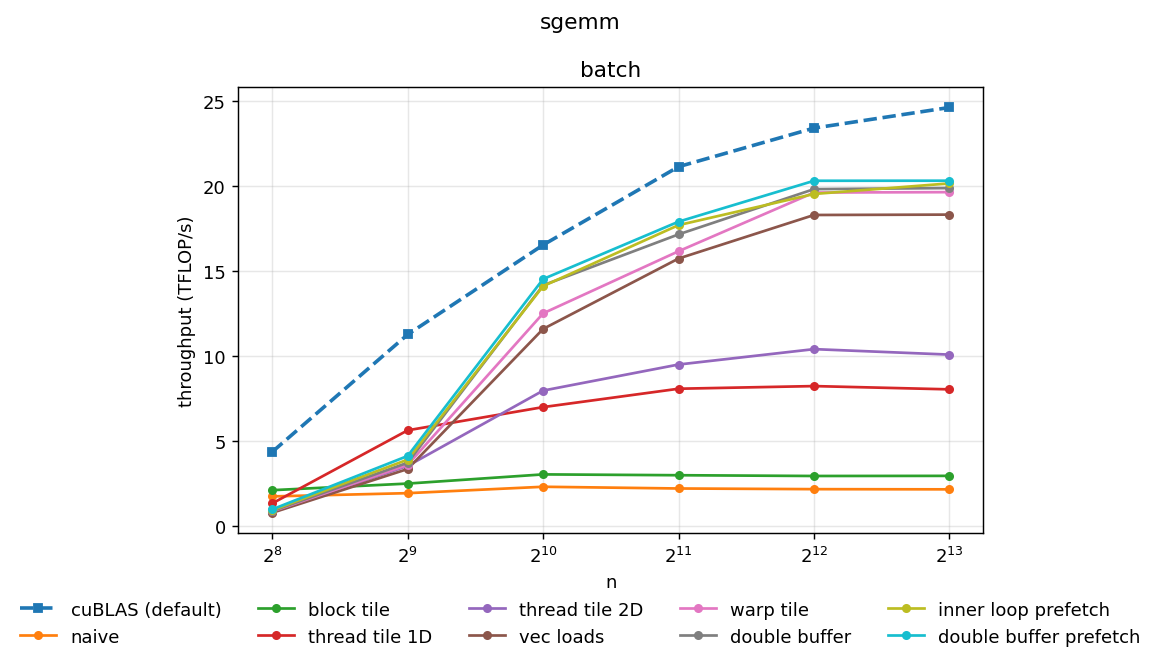
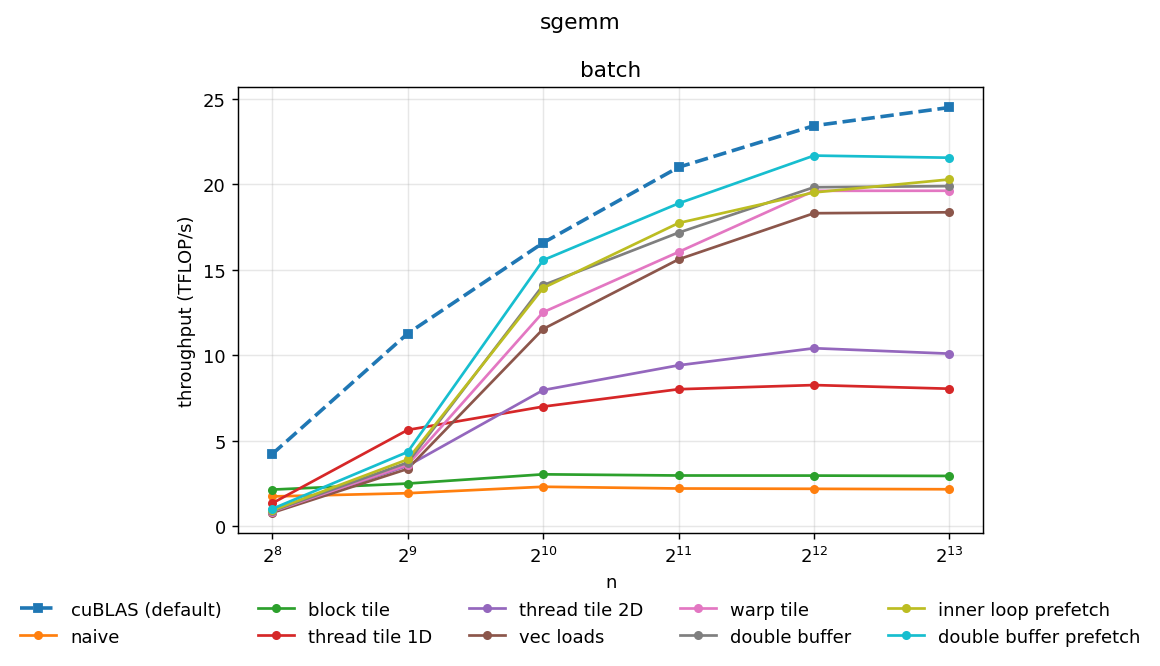
not unroll loop to increase perf

diff --git a/docs/sgemm.md b/docs/sgemm.md
@@ -140,7 +140,7 @@ Results for $M=N=K=4096$.
 | Warp tile                         | 19.63                | 83.82%                    |
 | Double buffer                     | 19.83                | 84.67%                    |
 | Inner loop prefetch               | 19.55                | 83.48%                    |
-| Double buffer inner loop prefetch | 20.32                | 86.76%                    |
+| Double buffer inner loop prefetch | 21.68                | 92.57%                    |
 
 ## Naive 
 
